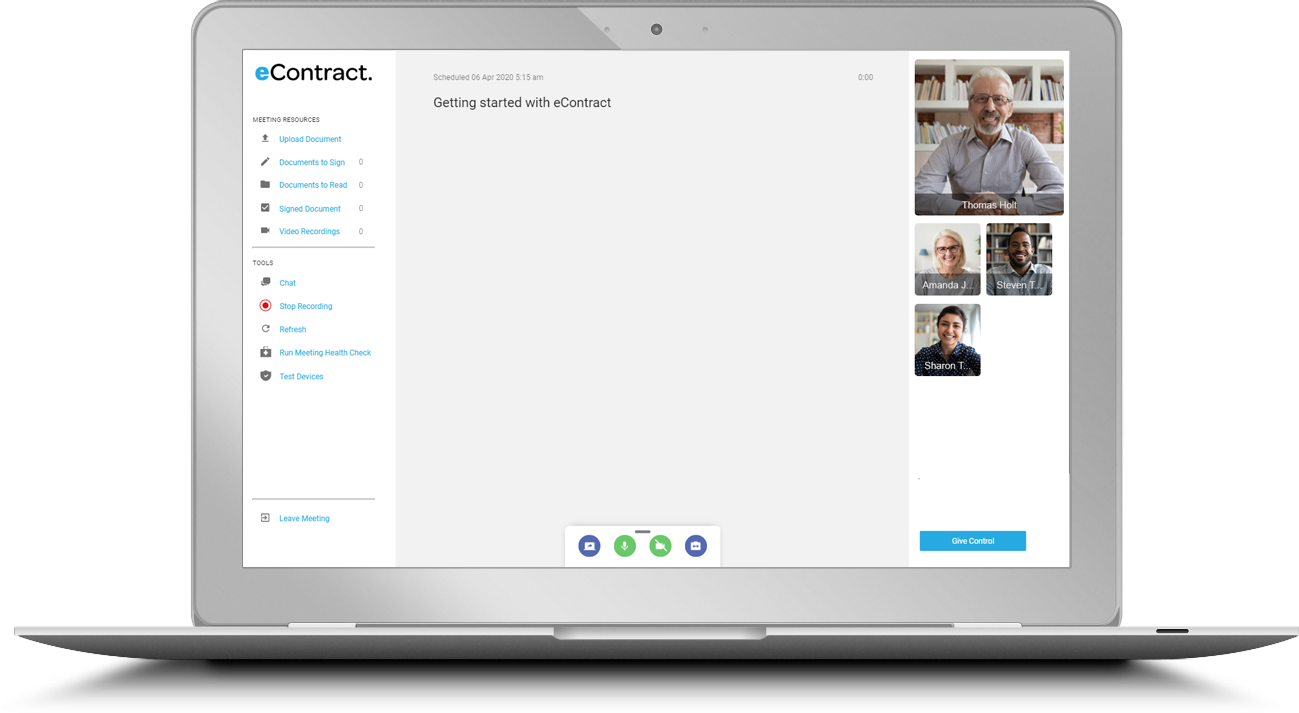
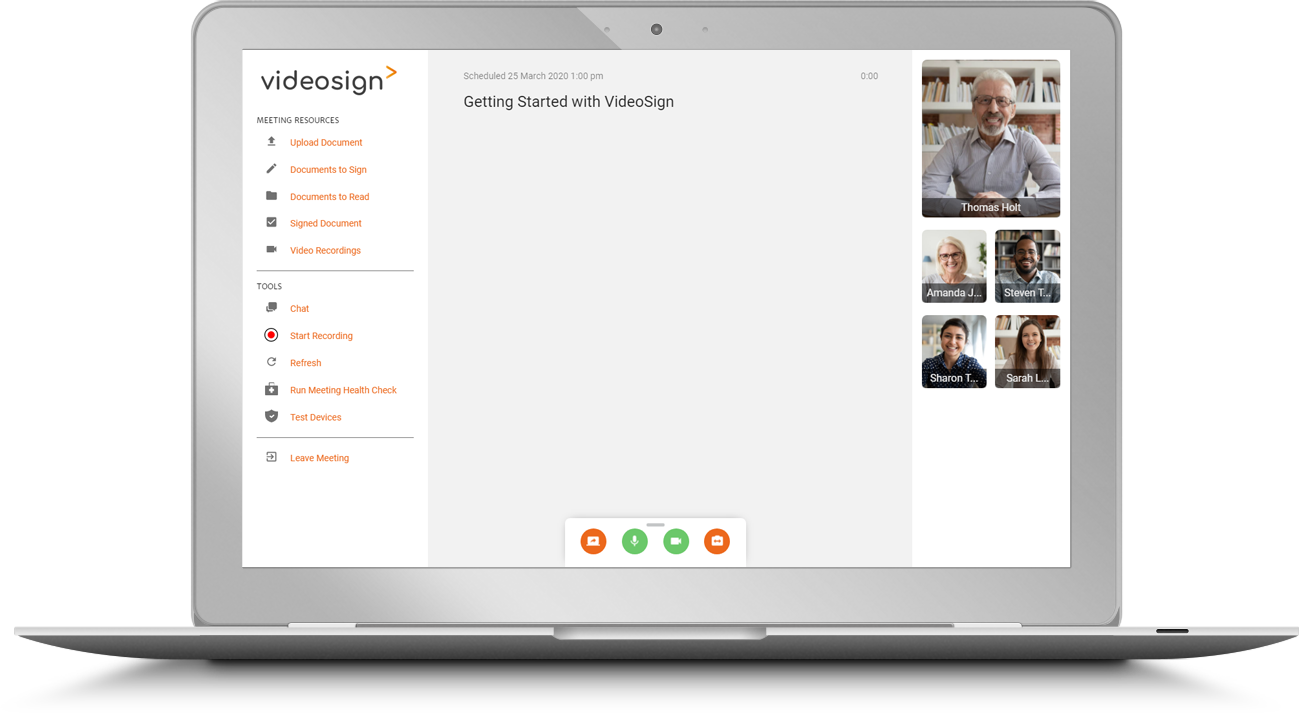
Add files via upload
update colors on tutorial, minor changes to home page

diff --git a/css/videosign.css b/css/videosign.css
@@ -17,7 +17,7 @@ body {
 }
 
 a {
-  color: #26aae1;
+  color: #ec681c;
 }
 
 h3 {
@@ -96,7 +96,7 @@ iframe {
 .left-links {
   display: inline-block;
   font-size: 14px;
-  color: #26aae1;
+  color: #ec681c;
   padding: 4px 12px;
 }
 
@@ -319,7 +319,7 @@ iframe {
   width: 300px;
   height: 50px;
   border-radius: 3px;
-  background: #26aae1;
+  background: #ec681c;
   color: #fff;
   text-align: center;
   border: none;
@@ -328,7 +328,7 @@ iframe {
 }
 
 .btn-open-doc:hover {
-  background-color: #1d80aa;
+  background-color: #cf5711;
 }
 
 .view-doc-container {
@@ -418,7 +418,7 @@ iframe {
   width: calc(100% - 30px);
   height: 50px;
   border-radius: 3px;
-  background: #26aae1;
+  background: #ec681c;
   color: #fff;
   text-align: center;
   border: none;
@@ -429,7 +429,7 @@ iframe {
 }
 
 .btn-close-doc:hover {
-  background-color: #1d80aa;
+  background-color: #cf5711;
 }
 
 
@@ -487,7 +487,7 @@ iframe {
 }
 
 .blue-icon {
-  background: #26aae1;
+  background: #ec681c;
 }
 
 .green-icon {

diff --git a/tutorial.html b/tutorial.html
@@ -371,7 +371,7 @@
             <div class="container">
                 <a href="index.html"><img class="logo-image mb-5" src="assets/videosign-logo.png" alt="VideoSign Logo"></a>
                 <div class="col-md-12">
-                    <div id="tutorialSlides" class="carousel slide carousel-fade" data-ride="carousel">
+                    <div id="tutorialSlides" class="carousel slide" data-ride="carousel">
                         <div class="carousel-inner">
                             <div class="carousel-item active">
                                 <img class="d-block w-100"

diff --git a/index.html b/index.html
@@ -103,7 +103,7 @@
             <h2 class="text-center mt-0">How to Use VideoSign</h2>
             <hr class="divider my-4" />
             <div class="col-md-12">
-                <div id="tutorialSlides" class="carousel slide carousel-fade" data-ride="carousel">
+                <div id="tutorialSlides" class="carousel slide" data-ride="carousel">
                     <div class="carousel-inner">
                         <div class="carousel-item active">
                             <img class="d-block w-100" alt="First slide [800x400]"

diff --git a/css/styles.css b/css/styles.css
@@ -9968,7 +9968,7 @@ hr.light {
   font-weight: 700;
   text-transform: uppercase;
   border: none;
-  border-radius: 10rem;
+  border-radius: 0;
   margin:0 5px;
 }
 
